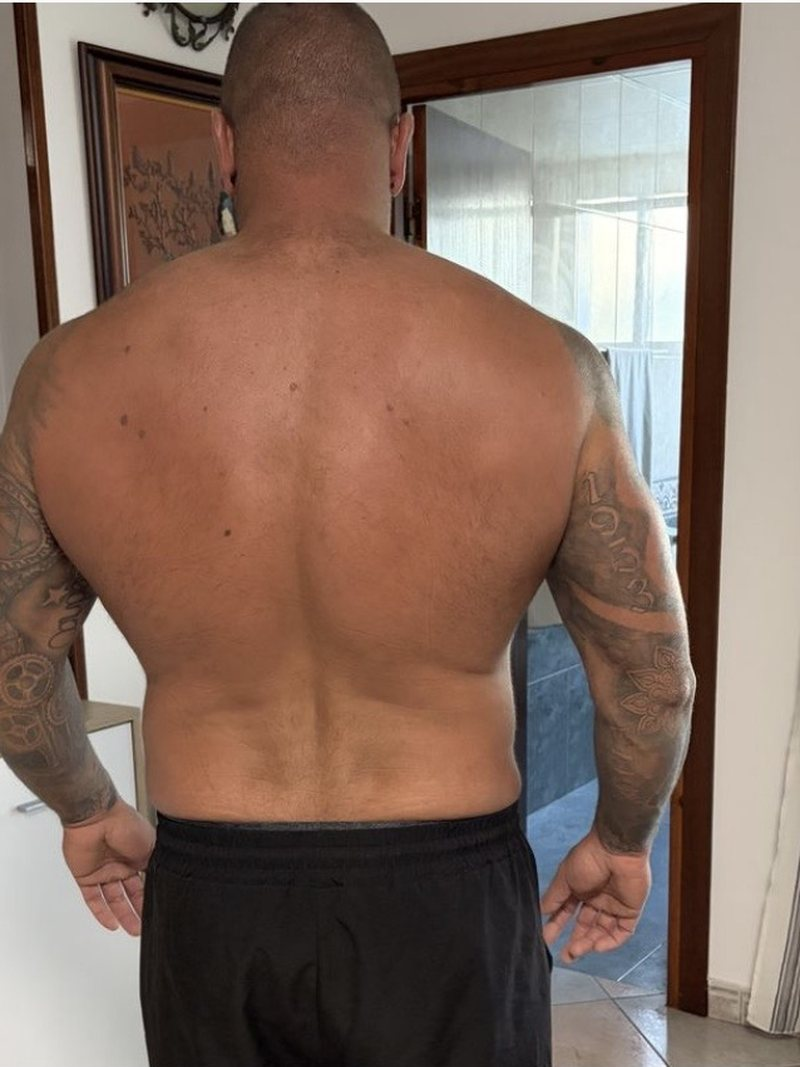
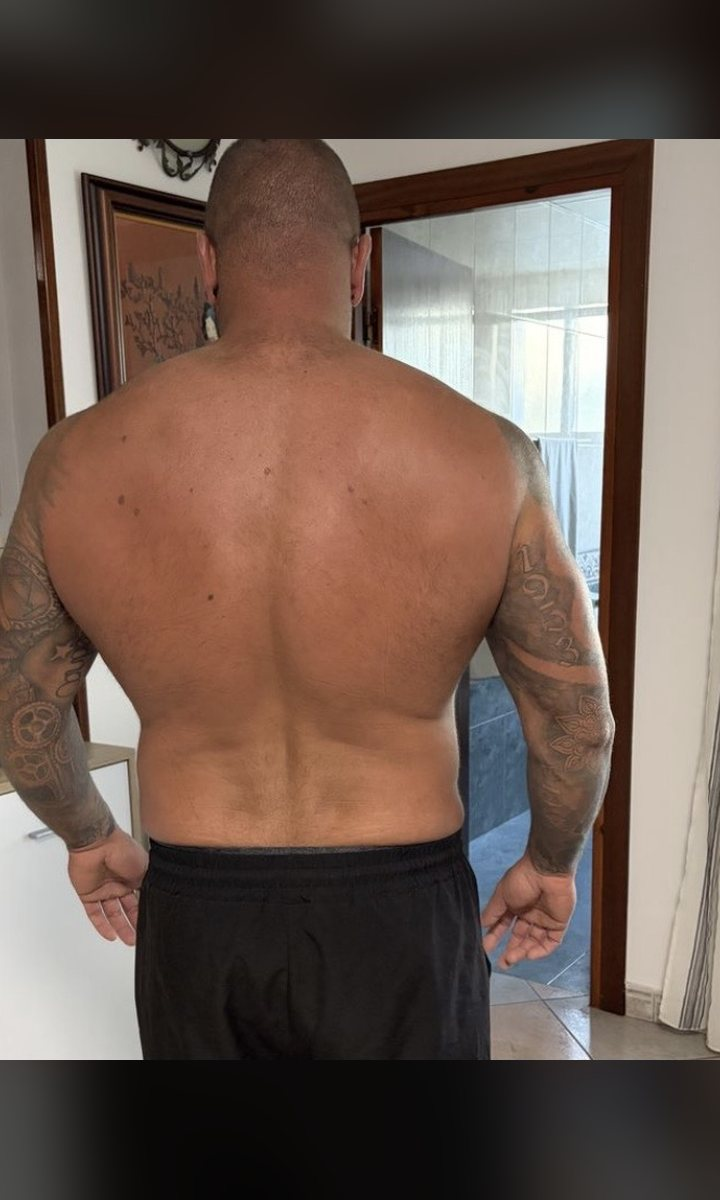
Añadir a Antonio, Pepito y Luciana, y rehacer todos los encuadres
Al forzar las fotos a un marco 3:4 se perdía medio cuerpo en los casos
con foto de cuerpo entero, como los de José Luis y Mónica. Se cambia el
criterio: el marco pasa a 3:5 y ya no se recorta nunca en vertical. Si a
una foto le sobra alto, el hueco se rellena con una copia difuminada y
oscurecida de ella misma; si le sobra ancho, se recorta por los lados
centrando en la persona y no en el medio del encuadre, que dejaba a
Luciana fuera de plano.

Casos nuevos: Antonio (recomposición corporal) y Pepito. Luciana vuelve a
estar activa, ahora que tiene sus dos fotos.

Mónica pasa a usar la foto de la carpeta de casos de éxito: mismo
encuadre, misma luz y mismo fondo en el antes y el después, que es lo que
hace creíble una comparación.

La duración pasa a ser opcional: en las fichas donde todavía no se conoce
simplemente no se muestra, en lugar de inventarla.

Claude-Session: https://claude.ai/code/session_01JYyLpYCo6QDPh5uQwWs7cm

diff --git a/assets/data/cambios.js b/assets/data/cambios.js
@@ -50,7 +50,8 @@ const CONFIG = {
    genero    → "hombre" | "mujer"   (alimenta el filtro)
    tipo      → "perdida" | "recomposicion" | "musculo"
    titular   → el dato potente, se ve en grande (ej: "-40 kg")
-   duracion  → tiempo del proceso (ej: "10 meses")
+   duracion  → tiempo del proceso (ej: "10 meses"). Opcional: si lo dejas
+                vacío (""), la ficha simplemente no lo muestra.
    resumen   → una línea corta, la que se lee de un vistazo
    historia  → el texto largo, se ve al abrir la ficha
    tags      → 2 o 3 etiquetas cortas
@@ -85,11 +86,19 @@ const CAMBIOS = [
       "Pesa prácticamente lo mismo que cuando empezó, pero su cuerpo es completamente distinto. Perdió la grasa blanda, tonificó al máximo y ganó músculo firme. Pasó de fijarse en un número absurdo en la báscula a verse apretada, fuerte y espectacular frente al espejo.",
     tags: ["Recomposición", "Tonificación", "+ Músculo"]
   },
-  /* ── LUCIANA: apagada hasta tener sus fotos ─────────────────────────────
-     Su tarjeta saldría con los recuadros de "falta la foto" a la vista de
-     todo el mundo. En cuanto subas luciana-antes.jpg y luciana-despues.jpg
-     a assets/img/cambios/, borra esta línea y la del final del bloque.
-
+  {
+    /* ⚠ ÁLVARO: revisa el titular y añade la duración cuando la tengas */
+    slug: "antonio",
+    nombre: "Antonio",
+    genero: "hombre",
+    tipo: "recomposicion",
+    titular: "Recomposición corporal",
+    duracion: "",
+    resumen: "Perdió grasa y ganó músculo a la vez.",
+    historia:
+      "Recomposición de manual: quemó la grasa que le tapaba el trabajo del gimnasio mientras seguía construyendo músculo. El resultado es un cuerpo con forma y definición, no simplemente un cuerpo más delgado.",
+    tags: ["Recomposición", "− Grasa", "+ Definición"]
+  },
   {
     slug: "luciana",
     nombre: "Luciana",
@@ -102,20 +111,18 @@ const CAMBIOS = [
       "En solo su primer mes se quitó 10 cm de cintura de encima. Los pantalones le empezaron a bailar de golpe y vio desde el día uno que este sistema sí funcionaba para ella.",
     tags: ["Primer mes", "−10 cm cintura", "Adherencia"]
   },
-
-  ───────────────────────────────────────────────────────────────────────── */
   {
-    slug: "alvaro",
-    nombre: "Álvaro",
+    /* ⚠ ÁLVARO: revisa el titular y añade la duración cuando la tengas */
+    slug: "pepito",
+    nombre: "Pepito",
     genero: "hombre",
-    tipo: "musculo",
-    titular: "De blando a atlético",
-    duracion: "Recomposición",
-    resumen: "Mi propio cambio: de blando a atlético.",
+    tipo: "perdida",
+    titular: "De blando a definido",
+    duracion: "",
+    resumen: "Se quitó la grasa de encima y sacó forma.",
     historia:
-      "Mi propio cambio. Dejé atrás el aspecto tapado y sin forma para construir masa muscular de verdad: volumen en hombros, espalda y pecho, bajando el porcentaje de grasa y logrando esa estética fuerte y definida que llevaba años buscando. Lo que te propongo es exactamente lo que hice yo.",
-    tags: ["+ Músculo", "− Grasa", "Estética atlética"],
-    esMio: true
+      "Dejó atrás el cuerpo blando y sin forma para verse fuerte y definido. Perdió la grasa que le sobraba sin renunciar a su vida, y ahora el trabajo del gimnasio por fin se le nota.",
+    tags: ["Pérdida de grasa", "+ Definición"]
   },
   {
     slug: "juanjo",
@@ -128,6 +135,19 @@ const CAMBIOS = [
     historia:
       "Quemó la grasa rebelde de la cintura (5 cm menos) a la vez que metía músculo limpio. Se mira al espejo y ve a un tío fuerte y compacto pesando exactamente lo mismo, demostrando el poder de entrenar y comer con cabeza.",
     tags: ["Recomposición", "− Cintura", "+ Fuerza"]
+  },
+  {
+    slug: "alvaro",
+    nombre: "Álvaro",
+    genero: "hombre",
+    tipo: "musculo",
+    titular: "De blando a atlético",
+    duracion: "Recomposición",
+    resumen: "Mi propio cambio: de blando a atlético.",
+    historia:
+      "Mi propio cambio. Dejé atrás el aspecto tapado y sin forma para construir masa muscular de verdad: volumen en hombros, espalda y pecho, bajando el porcentaje de grasa y logrando esa estética fuerte y definida que llevaba años buscando. Lo que te propongo es exactamente lo que hice yo.",
+    tags: ["+ Músculo", "− Grasa", "Estética atlética"],
+    esMio: true
   }
 
   /* ── PLANTILLA PARA UN CAMBIO NUEVO ──────────────────────────────────────
@@ -139,7 +159,7 @@ const CAMBIOS = [
     titular: "−15 kg",
     pesoAntes: "88 KG",      // opcional
     pesoDespues: "73 KG",    // opcional
-    duracion: "6 meses",
+    duracion: "6 meses",     // opcional: si lo dejas vacío, no se muestra
     resumen: "Una línea corta y potente.",
     historia: "El texto largo que se lee al abrir la ficha.",
     tags: ["Etiqueta 1", "Etiqueta 2"]

diff --git a/assets/js/main.js b/assets/js/main.js
@@ -97,7 +97,8 @@
              '<div class="pair">' + foto(c, "antes") + foto(c, "despues") + medida(c) + "</div>" +
              '<div class="card__body">' +
                '<h3 class="card__name">' + c.nombre + "</h3>" +
-               '<p class="card__meta">' + c.duracion + ' <i>&middot;</i> ' + genero + "</p>" +
+               '<p class="card__meta">' +
+                 (c.duracion ? c.duracion + ' <i>&middot;</i> ' : "") + genero + "</p>" +
                '<p class="card__sum">' + c.resumen + "</p>" +
                '<div class="tags">' + tags + "</div>" +
                '<span class="card__more">Ver el cambio <span>&rarr;</span></span>' +
@@ -156,7 +157,8 @@
       $("#lbMedia").innerHTML = '<div class="pair">' + foto(c, "antes") + foto(c, "despues") + medida(c) + "</div>";
       $("#lbTitular").textContent = c.titular;
       $("#lbName").textContent = c.nombre;
-      $("#lbMeta").textContent = c.duracion + " · " +
+      $("#lbMeta").textContent =
+        (c.duracion ? c.duracion + " · " : "") +
         (c.esMio ? "Mi propio cambio" : (c.genero === "mujer" ? "Mujer" : "Hombre"));
       $("#lbStory").textContent = c.historia;
       lb.hidden = false;

diff --git a/assets/css/styles.css b/assets/css/styles.css
@@ -290,7 +290,7 @@ section[id]{scroll-margin-top:calc(var(--header-h) + 8px)}
 @keyframes pop{from{opacity:0;transform:translateY(14px) scale(.99)}}
 
 .pair{position:relative;display:grid;grid-template-columns:1fr 1fr;gap:1px;background:var(--line-2)}
-.shot{position:relative;aspect-ratio:3/4;background:var(--surface-2);overflow:hidden}
+.shot{position:relative;aspect-ratio:3/5;background:var(--surface-2);overflow:hidden}
 .shot img{width:100%;height:100%;object-fit:cover}
 .shot__tag{
   position:absolute;top:10px;z-index:2;
@@ -445,7 +445,7 @@ section[id]{scroll-margin-top:calc(var(--header-h) + 8px)}
   transition:background var(--fast)}
 .lb__close:hover{background:var(--surface-2)}
 .lb__media .pair{border-radius:var(--r-xl) var(--r-xl) 0 0;overflow:hidden}
-.lb__media .shot{aspect-ratio:3/4;max-height:min(54vh,520px)}
+.lb__media .shot{aspect-ratio:3/5;max-height:min(58vh,560px)}
 .lb__body{padding:clamp(22px,3.5vw,32px)}
 .lb__titular{display:inline-block;background:var(--accent);color:var(--ink);font-weight:600;
   font-size:13px;padding:6px 14px;border-radius:8px;margin:0 0 1em}
